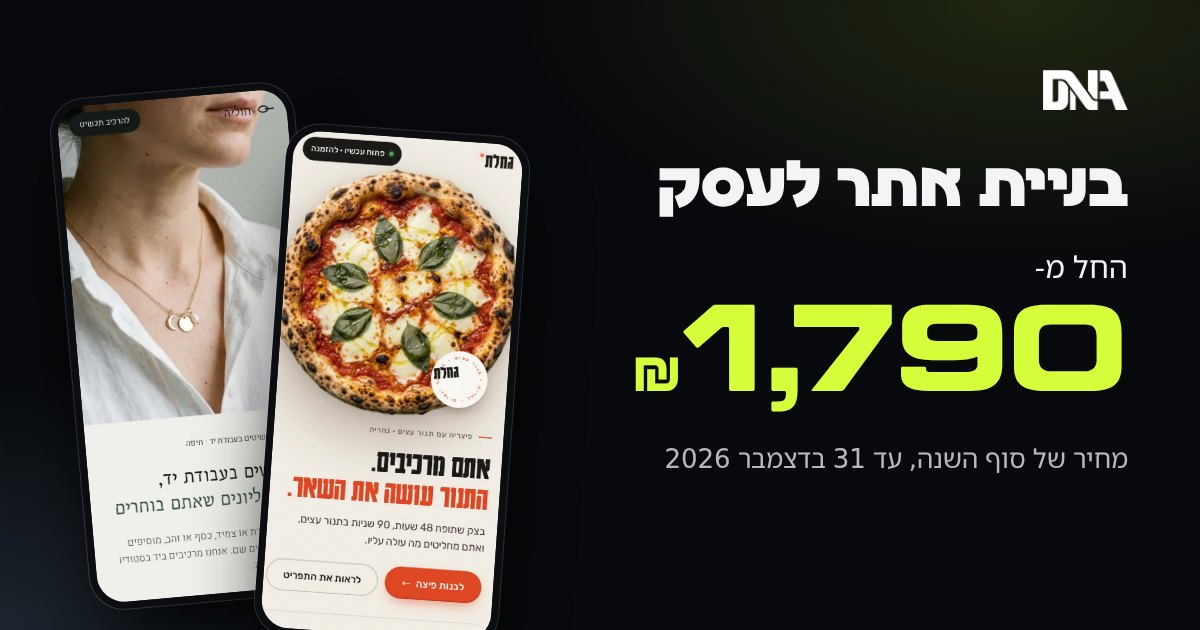
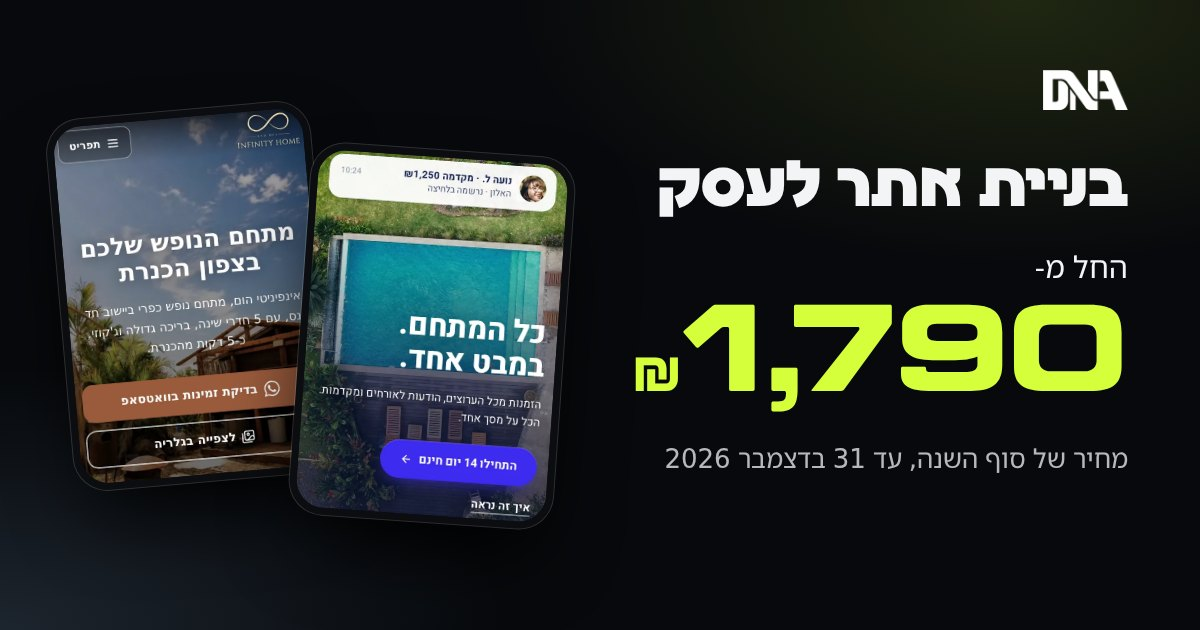
sites/ A3: only real live sites (INFINITY HOME, ATLAS, VINOA, FRAMEBUDS) with fresh 390 captures; demos removed from texts, stills and OG image

Changed region(s): [[0.0308, 0.1206, 0.4933, 1.0]]

diff --git a/sites/index.html b/sites/index.html
@@ -114,6 +114,7 @@ h2{font-size:clamp(30px,8.4vw,52px)}
 .wk{display:flex;flex-direction:column}
 .wk-h .lab{display:inline-block;font-size:15.5px;font-weight:600;color:var(--ink2);padding:4px 12px;border-radius:999px;background:#ffffff0f;box-shadow:inset 0 0 0 1px #ffffff26}
 .wk-h .wn{font-size:30px;margin-top:8px;letter-spacing:-.01em}
+.wk-h .wt{margin-top:2px;font-size:17px;font-weight:600;color:var(--ink)}
 .wk-h .wl{margin-top:6px;color:var(--ink2);font-size:17px;max-width:38ch}
 .shot{position:relative;display:block;margin-top:14px;border-radius:26px;overflow:hidden;background:#111;box-shadow:0 0 0 1px #ffffff24,0 30px 70px -34px #000;-webkit-tap-highlight-color:transparent}
 .shot img{width:100%;height:auto;aspect-ratio:600/860}
@@ -124,7 +125,7 @@ h2{font-size:clamp(30px,8.4vw,52px)}
 .btn.view:active{transform:scale(.97)}
 @media (hover:hover) and (pointer:fine){.btn.view:hover{background:#fff}}
 @media (min-width:760px){.wk-l{grid-template-columns:repeat(2,minmax(0,1fr));gap:56px 40px}}
-@media (min-width:1100px){.wk-l{grid-template-columns:repeat(3,minmax(0,1fr))}}
+@media (min-width:1100px){.wk-l{grid-template-columns:repeat(4,minmax(0,1fr));gap:56px 28px}}
 
 /* why: three short lines */
 .why h2{max-width:20ch}
@@ -209,7 +210,7 @@ h2{font-size:clamp(30px,8.4vw,52px)}
  <p class="hp"><span>החל מ-1,790 ₪, עד 31 בדצמבר 2026</span></p>
  <div class="ctas"><a class="btn pri" href="https://wa.me/972536995564?text=%D7%94%D7%99%D7%99%20%D7%93%D7%99%D7%9F%20%D7%95%D7%A0%D7%95%D7%A2%D7%94%2C%20%D7%A8%D7%90%D7%99%D7%AA%D7%99%20%D7%90%D7%AA%20%D7%94%D7%93%D7%A3%20%D7%A2%D7%9C%20%D7%91%D7%A0%D7%99%D7%99%D7%AA%20%D7%90%D7%AA%D7%A8%D7%99%D7%9D%20%D7%95%D7%90%D7%A9%D7%9E%D7%97%20%D7%9C%D7%A9%D7%9E%D7%95%D7%A2%20%D7%A2%D7%9C%20%D7%90%D7%AA%D7%A8%20%D7%9C%D7%A2%D7%A1%D7%A7%20%D7%A9%D7%9C%D7%99" target="_blank" rel="noopener"><svg class="ico" viewBox="0 0 24 24" aria-hidden="true"><path fill="currentColor" d="M12 2.2a9.8 9.8 0 0 0-8.4 14.8L2.3 21.7l4.8-1.3A9.8 9.8 0 1 0 12 2.2Zm0 17.8a8 8 0 0 1-4.1-1.1l-.3-.2-2.9.8.8-2.8-.2-.3A8 8 0 1 1 12 20Zm4.4-6c-.2-.1-1.4-.7-1.7-.8-.2-.1-.4-.1-.5.1l-.8 1c-.1.2-.3.2-.5.1a6.6 6.6 0 0 1-3.3-2.9c-.2-.4.2-.4.7-1.3.1-.2 0-.3 0-.4l-.8-1.8c-.2-.5-.4-.4-.5-.4h-.5a.9.9 0 0 0-.7.3 2.8 2.8 0 0 0-.9 2.1 4.9 4.9 0 0 0 1 2.6 11.2 11.2 0 0 0 4.3 3.8c1.6.7 2.2.7 3 .6a2.6 2.6 0 0 0 1.7-1.2 2.1 2.1 0 0 0 .2-1.2c-.1-.1-.3-.2-.5-.3Z"/></svg><span>שלחו לנו הודעה בוואטסאפ</span></a><a class="btn ghost" href="tel:+972536995564"><svg class="ico" viewBox="0 0 24 24" aria-hidden="true"><path fill="none" stroke="currentColor" stroke-width="1.7" stroke-linejoin="round" d="M6.6 3.5h2.6l1.5 4-1.9 1.3a11 11 0 0 0 6.4 6.4l1.3-1.9 4 1.5v2.6a2 2 0 0 1-2.2 2A16.6 16.6 0 0 1 4.6 5.7a2 2 0 0 1 2-2.2Z"/></svg><span>התקשרו אלינו</span></a></div><p class="note">בלי התחייבות. מדברים ישירות עם דין ונועה.</p>
 </div></section>
-<section class="sec works" id="works"><div class="wrap"><h2>אתרים שבנינו</h2><p class="lead">ככה נראים האתרים שבנינו בטלפון. לחצו &quot;לצפייה באתר&quot; כדי לפתוח את האתר עצמו.</p><div class="wk-l"><article class="wk"><div class="wk-h"><p class="lab">הדגמה · סטודיו לתכשיטים</p><h3 class="wn"><bdi>חוליה</bdi></h3><p class="wl">אתר לסטודיו לתכשיטים בעבודת יד. בוחרים שרשרת ותליונים ורואים את התכשיט נבנה על המסך.</p></div><a class="shot" href="https://6ae759cdc59cb861f1f0b775--dna-preview-a2.netlify.app" target="_blank" rel="noopener" aria-label="לצפייה באתר: חוליה"><img src="assets/img/jewelry-still.webp" width="600" height="860" alt="העמוד הראשי של חוליה בטלפון" loading="eager" decoding="async"></a><div class="wk-a"><a class="btn view" href="https://6ae759cdc59cb861f1f0b775--dna-preview-a2.netlify.app" target="_blank" rel="noopener"><span>לצפייה באתר</span><svg class="ext" viewBox="0 0 12 12" aria-hidden="true"><path d="M3.5 2.5h6v6M9.5 2.5l-7 7" fill="none" stroke="currentColor" stroke-width="1.5" stroke-linecap="round" transform="scale(-1 1) translate(-12 0)"/></svg></a><a class="lnk" href="https://wa.me/972536995564?text=%D7%94%D7%99%D7%99%2C%20%D7%A8%D7%90%D7%99%D7%AA%D7%99%20%D7%90%D7%AA%20%D7%90%D7%AA%D7%A8%20%D7%94%D7%AA%D7%9B%D7%A9%D7%99%D7%98%D7%99%D7%9D%20%28%D7%94%D7%93%D7%92%D7%9E%D7%94%29%20%D7%91%D7%90%D7%AA%D7%A8%20%D7%A9%D7%9C%D7%9B%D7%9D%20%D7%95%D7%90%D7%A9%D7%9E%D7%97%20%D7%9C%D7%90%D7%AA%D7%A8%20%D7%9B%D7%96%D7%94%20%D7%9C%D7%A2%D7%A1%D7%A7%20%D7%A9%D7%9C%D7%99" target="_blank" rel="noopener">רוצים אתר כזה?</a></div></article><article class="wk"><div class="wk-h"><p class="lab">הדגמה · פיצרייה</p><h3 class="wn"><bdi>גחלת</bdi></h3><p class="wl">אתר לפיצרייה עם תנור עצים. בונים פיצה, רואים את המחיר ומזמינים משלוח או איסוף.</p></div><a class="shot" href="https://6ae744eb3555d9f7eb0eb53d--dna-preview-a2.netlify.app" target="_blank" rel="noopener" aria-label="לצפייה באתר: גחלת"><img src="assets/img/pizza-still.webp" width="600" height="860" alt="העמוד הראשי של גחלת בטלפון" loading="lazy" decoding="async"></a><div class="wk-a"><a class="btn view" href="https://6ae744eb3555d9f7eb0eb53d--dna-preview-a2.netlify.app" target="_blank" rel="noopener"><span>לצפייה באתר</span><svg class="ext" viewBox="0 0 12 12" aria-hidden="true"><path d="M3.5 2.5h6v6M9.5 2.5l-7 7" fill="none" stroke="currentColor" stroke-width="1.5" stroke-linecap="round" transform="scale(-1 1) translate(-12 0)"/></svg></a><a class="lnk" href="https://wa.me/972536995564?text=%D7%94%D7%99%D7%99%2C%20%D7%A8%D7%90%D7%99%D7%AA%D7%99%20%D7%90%D7%AA%20%D7%90%D7%AA%D7%A8%20%D7%94%D7%A4%D7%99%D7%A6%D7%A8%D7%99%D7%99%D7%94%20%28%D7%94%D7%93%D7%92%D7%9E%D7%94%29%20%D7%91%D7%90%D7%AA%D7%A8%20%D7%A9%D7%9C%D7%9B%D7%9D%20%D7%95%D7%90%D7%A9%D7%9E%D7%97%20%D7%9C%D7%90%D7%AA%D7%A8%20%D7%9B%D7%96%D7%94%20%D7%9C%D7%A2%D7%A1%D7%A7%20%D7%A9%D7%9C%D7%99" target="_blank" rel="noopener">רוצים אתר כזה?</a></div></article><article class="wk"><div class="wk-h"><p class="lab">הדגמה · בר על גג</p><h3 class="wn"><bdi>מעלה°</bdi></h3><p class="wl">אתר לבר על גג. תפריט קוקטיילים, שעות פתיחה ושמירת שולחן בוואטסאפ.</p></div><a class="shot" href="https://6ae741989f13863e160e2830--dna-preview-a2.netlify.app" target="_blank" rel="noopener" aria-label="לצפייה באתר: מעלה°"><img src="assets/img/rooftop-still.webp" width="600" height="860" alt="העמוד הראשי של מעלה° בטלפון" loading="lazy" decoding="async"></a><div class="wk-a"><a class="btn view" href="https://6ae741989f13863e160e2830--dna-preview-a2.netlify.app" target="_blank" rel="noopener"><span>לצפייה באתר</span><svg class="ext" viewBox="0 0 12 12" aria-hidden="true"><path d="M3.5 2.5h6v6M9.5 2.5l-7 7" fill="none" stroke="currentColor" stroke-width="1.5" stroke-linecap="round" transform="scale(-1 1) translate(-12 0)"/></svg></a><a class="lnk" href="https://wa.me/972536995564?text=%D7%94%D7%99%D7%99%2C%20%D7%A8%D7%90%D7%99%D7%AA%D7%99%20%D7%90%D7%AA%20%D7%90%D7%AA%D7%A8%20%D7%94%D7%91%D7%A8%20%28%D7%94%D7%93%D7%92%D7%9E%D7%94%29%20%D7%91%D7%90%D7%AA%D7%A8%20%D7%A9%D7%9C%D7%9B%D7%9D%20%D7%95%D7%90%D7%A9%D7%9E%D7%97%20%D7%9C%D7%90%D7%AA%D7%A8%20%D7%9B%D7%96%D7%94%20%D7%9C%D7%A2%D7%A1%D7%A7%20%D7%A9%D7%9C%D7%99" target="_blank" rel="noopener">רוצים אתר כזה?</a></div></article><article class="wk"><div class="wk-h"><p class="lab">הדגמה · בית בושם</p><h3 class="wn"><bdi>נטף</bdi></h3><p class="wl">אתר לבית בושם. מרכיבים בושם אישי, בוחרים גודל ורואים את המחיר מיד.</p></div><a class="shot" href="https://6ae74b4f008a3cd81c84e911--dna-preview-a2.netlify.app" target="_blank" rel="noopener" aria-label="לצפייה באתר: נטף"><img src="assets/img/perfume-still.webp" width="600" height="860" alt="העמוד הראשי של נטף בטלפון" loading="lazy" decoding="async"></a><div class="wk-a"><a class="btn view" href="https://6ae74b4f008a3cd81c84e911--dna-preview-a2.netlify.app" target="_blank" rel="noopener"><span>לצפייה באתר</span><svg class="ext" viewBox="0 0 12 12" aria-hidden="true"><path d="M3.5 2.5h6v6M9.5 2.5l-7 7" fill="none" stroke="currentColor" stroke-width="1.5" stroke-linecap="round" transform="scale(-1 1) translate(-12 0)"/></svg></a><a class="lnk" href="https://wa.me/972536995564?text=%D7%94%D7%99%D7%99%2C%20%D7%A8%D7%90%D7%99%D7%AA%D7%99%20%D7%90%D7%AA%20%D7%90%D7%AA%D7%A8%20%D7%94%D7%91%D7%95%D7%A9%D7%9D%20%28%D7%94%D7%93%D7%92%D7%9E%D7%94%29%20%D7%91%D7%90%D7%AA%D7%A8%20%D7%A9%D7%9C%D7%9B%D7%9D%20%D7%95%D7%90%D7%A9%D7%9E%D7%97%20%D7%9C%D7%90%D7%AA%D7%A8%20%D7%9B%D7%96%D7%94%20%D7%9C%D7%A2%D7%A1%D7%A7%20%D7%A9%D7%9C%D7%99" target="_blank" rel="noopener">רוצים אתר כזה?</a></div></article><article class="wk"><div class="wk-h"><p class="lab">המוצר שלנו · מערכת לצימרים</p><h3 class="wn"><bdi>ATLAS</bdi></h3><p class="wl">אתר ומערכת לבעלי צימרים. הזמנות מ-Airbnb ומ-Booking נכנסות ללוח אחד.</p></div><a class="shot" href="https://atlas-il.com" target="_blank" rel="noopener" aria-label="לצפייה באתר: ATLAS"><img src="assets/img/atlas-still.webp" width="600" height="860" alt="העמוד הראשי של ATLAS בטלפון" loading="lazy" decoding="async"></a><div class="wk-a"><a class="btn view" href="https://atlas-il.com" target="_blank" rel="noopener"><span>לצפייה באתר</span><svg class="ext" viewBox="0 0 12 12" aria-hidden="true"><path d="M3.5 2.5h6v6M9.5 2.5l-7 7" fill="none" stroke="currentColor" stroke-width="1.5" stroke-linecap="round" transform="scale(-1 1) translate(-12 0)"/></svg></a><a class="lnk" href="https://wa.me/972536995564?text=%D7%94%D7%99%D7%99%2C%20%D7%A8%D7%90%D7%99%D7%AA%D7%99%20%D7%90%D7%AA%20ATLAS%20%D7%91%D7%90%D7%AA%D7%A8%20%D7%A9%D7%9C%D7%9B%D7%9D%20%D7%95%D7%90%D7%A9%D7%9E%D7%97%20%D7%9C%D7%90%D7%AA%D7%A8%20%D7%9B%D7%96%D7%94%20%D7%9C%D7%A2%D7%A1%D7%A7%20%D7%A9%D7%9C%D7%99" target="_blank" rel="noopener">רוצים אתר כזה?</a></div></article></div></div></section>
+<section class="sec works" id="works"><div class="wrap"><h2>אתרים שבנינו</h2><p class="lead">ככה נראים האתרים שבנינו בטלפון. לחצו &quot;לצפייה באתר&quot; כדי לפתוח את האתר עצמו.</p><div class="wk-l"><article class="wk"><div class="wk-h"><p class="lab">עבודה ללקוח</p><h3 class="wn"><bdi>INFINITY HOME</bdi></h3><p class="wt">אתר למתחם נופש בצפון</p><p class="wl">מתחם נופש בחד-נס, ליד הכנרת. גלריה לפי חדרים, ביקורות של אורחים וכפתור הזמנה שפותח וואטסאפ.</p></div><a class="shot" href="https://infinityhom.com" target="_blank" rel="noopener" aria-label="לצפייה באתר: INFINITY HOME"><img src="assets/img/infinity-still.webp" width="600" height="860" alt="העמוד הראשי של INFINITY HOME בטלפון" loading="eager" decoding="async"></a><div class="wk-a"><a class="btn view" href="https://infinityhom.com" target="_blank" rel="noopener"><span>לצפייה באתר</span><svg class="ext" viewBox="0 0 12 12" aria-hidden="true"><path d="M3.5 2.5h6v6M9.5 2.5l-7 7" fill="none" stroke="currentColor" stroke-width="1.5" stroke-linecap="round" transform="scale(-1 1) translate(-12 0)"/></svg></a><a class="lnk" href="https://wa.me/972536995564?text=%D7%94%D7%99%D7%99%2C%20%D7%A8%D7%90%D7%99%D7%AA%D7%99%20%D7%90%D7%AA%20%D7%94%D7%90%D7%AA%D7%A8%20%D7%A9%D7%9C%20INFINITY%20HOME%20%D7%91%D7%93%D7%A3%20%D7%A9%D7%9C%D7%9B%D7%9D%20%D7%95%D7%90%D7%A9%D7%9E%D7%97%20%D7%9C%D7%90%D7%AA%D7%A8%20%D7%9B%D7%96%D7%94%20%D7%9C%D7%A2%D7%A1%D7%A7%20%D7%A9%D7%9C%D7%99" target="_blank" rel="noopener">רוצים אתר כזה?</a></div></article><article class="wk"><div class="wk-h"><p class="lab">המוצר שלנו</p><h3 class="wn"><bdi>ATLAS</bdi></h3><p class="wt">אתר ומערכת לניהול צימרים</p><p class="wl">הזמנות מ-Airbnb ומ-Booking נכנסות לבד ללוח אחד.</p></div><a class="shot" href="https://atlas-il.com" target="_blank" rel="noopener" aria-label="לצפייה באתר: ATLAS"><img src="assets/img/atlas-still.webp" width="600" height="860" alt="העמוד הראשי של ATLAS בטלפון" loading="lazy" decoding="async"></a><div class="wk-a"><a class="btn view" href="https://atlas-il.com" target="_blank" rel="noopener"><span>לצפייה באתר</span><svg class="ext" viewBox="0 0 12 12" aria-hidden="true"><path d="M3.5 2.5h6v6M9.5 2.5l-7 7" fill="none" stroke="currentColor" stroke-width="1.5" stroke-linecap="round" transform="scale(-1 1) translate(-12 0)"/></svg></a><a class="lnk" href="https://wa.me/972536995564?text=%D7%94%D7%99%D7%99%2C%20%D7%A8%D7%90%D7%99%D7%AA%D7%99%20%D7%90%D7%AA%20ATLAS%20%D7%91%D7%93%D7%A3%20%D7%A9%D7%9C%D7%9B%D7%9D%20%D7%95%D7%90%D7%A9%D7%9E%D7%97%20%D7%9C%D7%90%D7%AA%D7%A8%20%D7%9B%D7%96%D7%94%20%D7%9C%D7%A2%D7%A1%D7%A7%20%D7%A9%D7%9C%D7%99" target="_blank" rel="noopener">רוצים אתר כזה?</a></div></article><article class="wk"><div class="wk-h"><p class="lab">הפרויקט שלנו</p><h3 class="wn"><bdi>VINOA</bdi></h3><p class="wt">אתר להרכב מוזיקה</p><p class="wl">צמד מוזיקה אלקטרונית, דין ונועה. השירים, ההופעות והסרטונים במקום אחד.</p></div><a class="shot" href="https://vinoamusic.com" target="_blank" rel="noopener" aria-label="לצפייה באתר: VINOA"><img src="assets/img/vinoa-still.webp" width="600" height="860" alt="העמוד הראשי של VINOA בטלפון" loading="lazy" decoding="async"></a><div class="wk-a"><a class="btn view" href="https://vinoamusic.com" target="_blank" rel="noopener"><span>לצפייה באתר</span><svg class="ext" viewBox="0 0 12 12" aria-hidden="true"><path d="M3.5 2.5h6v6M9.5 2.5l-7 7" fill="none" stroke="currentColor" stroke-width="1.5" stroke-linecap="round" transform="scale(-1 1) translate(-12 0)"/></svg></a><a class="lnk" href="https://wa.me/972536995564?text=%D7%94%D7%99%D7%99%2C%20%D7%A8%D7%90%D7%99%D7%AA%D7%99%20%D7%90%D7%AA%20%D7%94%D7%90%D7%AA%D7%A8%20%D7%A9%D7%9C%20VINOA%20%D7%91%D7%93%D7%A3%20%D7%A9%D7%9C%D7%9B%D7%9D%20%D7%95%D7%90%D7%A9%D7%9E%D7%97%20%D7%9C%D7%90%D7%AA%D7%A8%20%D7%9B%D7%96%D7%94%20%D7%9C%D7%A2%D7%A1%D7%A7%20%D7%A9%D7%9C%D7%99" target="_blank" rel="noopener">רוצים אתר כזה?</a></div></article><article class="wk"><div class="wk-h"><p class="lab">דף השקה</p><h3 class="wn"><bdi>FRAMEBUDS</bdi></h3><p class="wt">דף השקה למוצר חדש</p><p class="wl">מותג משקפי שמש לאספנים. דף שאוסף נרשמים לפני שהמוצר יוצא.</p></div><a class="shot" href="https://join.framebuds.com" target="_blank" rel="noopener" aria-label="לצפייה באתר: FRAMEBUDS"><img src="assets/img/framebuds-still.webp" width="600" height="860" alt="העמוד הראשי של FRAMEBUDS בטלפון" loading="lazy" decoding="async"></a><div class="wk-a"><a class="btn view" href="https://join.framebuds.com" target="_blank" rel="noopener"><span>לצפייה באתר</span><svg class="ext" viewBox="0 0 12 12" aria-hidden="true"><path d="M3.5 2.5h6v6M9.5 2.5l-7 7" fill="none" stroke="currentColor" stroke-width="1.5" stroke-linecap="round" transform="scale(-1 1) translate(-12 0)"/></svg></a><a class="lnk" href="https://wa.me/972536995564?text=%D7%94%D7%99%D7%99%2C%20%D7%A8%D7%90%D7%99%D7%AA%D7%99%20%D7%90%D7%AA%20%D7%93%D7%A3%20%D7%94%D7%94%D7%A9%D7%A7%D7%94%20%D7%A9%D7%9C%20FRAMEBUDS%20%D7%91%D7%93%D7%A3%20%D7%A9%D7%9C%D7%9B%D7%9D%20%D7%95%D7%90%D7%A9%D7%9E%D7%97%20%D7%9C%D7%90%D7%AA%D7%A8%20%D7%9B%D7%96%D7%94%20%D7%9C%D7%A2%D7%A1%D7%A7%20%D7%A9%D7%9C%D7%99" target="_blank" rel="noopener">רוצים אתר כזה?</a></div></article></div></div></section>
 <section class="sec why"><div class="wrap"><h2>ביקורות מעולות. אז למה לקוחות עדיין הולכים למתחרים?</h2><ol class="why-l"><li><span class="num">1</span><p>לקוח חדש בודק כמה עסקים לפני שהוא מתקשר. עסק עם אתר נראה רציני יותר.</p></li><li><span class="num">2</span><p>בלי אתר אין לו איפה לראות עבודות, שירותים ושעות פתיחה.</p></li><li><span class="num">3</span><p>אתר טוב מוביל אותו לכפתור אחד: להתקשר או לשלוח וואטסאפ.</p></li></ol></div></section>
 <section class="sec offer" id="price"><div class="wrap"><div class="pr">
  <h2>מה כלול במחיר</h2><ul class="inc"><li><svg class="ck" viewBox="0 0 16 16" aria-hidden="true"><path d="M3 8.5 6.5 12 13 4.5" fill="none" stroke="currentColor" stroke-width="1.8" stroke-linecap="round" stroke-linejoin="round"/></svg><span>עד 5 עמודים: בית, אודות, שירותים, גלריה וצור קשר</span></li><li><svg class="ck" viewBox="0 0 16 16" aria-hidden="true"><path d="M3 8.5 6.5 12 13 4.5" fill="none" stroke="currentColor" stroke-width="1.8" stroke-linecap="round" stroke-linejoin="round"/></svg><span>גלריה של העבודות שלכם, הביקורות שלכם מגוגל ושאלות ותשובות</span></li><li><svg class="ck" viewBox="0 0 16 16" aria-hidden="true"><path d="M3 8.5 6.5 12 13 4.5" fill="none" stroke="currentColor" stroke-width="1.8" stroke-linecap="round" stroke-linejoin="round"/></svg><span>עיצוב שמתאים לעסק שלכם</span></li><li><svg class="ck" viewBox="0 0 16 16" aria-hidden="true"><path d="M3 8.5 6.5 12 13 4.5" fill="none" stroke="currentColor" stroke-width="1.8" stroke-linecap="round" stroke-linejoin="round"/></svg><span>כותבים את כל הטקסטים</span></li><li><svg class="ck" viewBox="0 0 16 16" aria-hidden="true"><path d="M3 8.5 6.5 12 13 4.5" fill="none" stroke="currentColor" stroke-width="1.8" stroke-linecap="round" stroke-linejoin="round"/></svg><span>אתר שנראה מעולה בטלפון ובמחשב</span></li><li><svg class="ck" viewBox="0 0 16 16" aria-hidden="true"><path d="M3 8.5 6.5 12 13 4.5" fill="none" stroke="currentColor" stroke-width="1.8" stroke-linecap="round" stroke-linejoin="round"/></svg><span>כפתור חיוג, כפתור וואטסאפ וטופס פנייה</span></li></ul>
